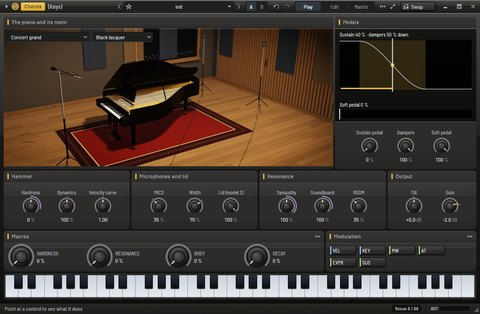
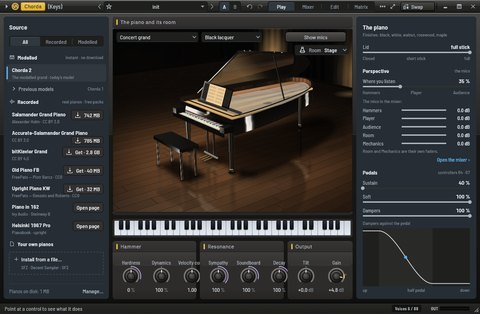
fix/final-d: Chorda as round 40 left it and Tympanum's card — Chorda's pictures re-shot from the current app (the grand in its room, Drawn, the source list and the room chip; Slate and Paper, EN and ES, thumbnails), its card says what it plays now (recorded pianos — the Salamander, bitKlavier, Accur

diff --git a/web/src/units_data.rs b/web/src/units_data.rs
@@ -4,7 +4,7 @@
 
 use crate::units::Unit;
 
-pub const INSTRUMENTS: [Unit; 9] = [
+pub const INSTRUMENTS: [Unit; 10] = [
     Unit {
         file: "unda",
         name: "Unda",
@@ -163,21 +163,44 @@ pub const INSTRUMENTS: [Unit; 9] = [
         file: "chorda",
         name: "Chorda",
         kind: ("Modelled grand piano", "Piano de cola modelado"),
-        pitch: ("A grand piano played from its physics: strings, felt hammers, a soundboard and half pedalling.", "Un piano de cola tocado desde su física: cuerdas, martillos de fieltro, tabla armónica y medio pedal."),
-        what: long!(("Chorda plays a grand piano from a physical model: each key's one to three strings struck by a felt hammer, meeting at a yielding bridge and ringing into a soundboard, with the other strings ringing in sympathy as their dampers allow. No sample excites anything; its numbers come from published measurements.", "Chorda toca un piano de cola desde un modelo físico: las una a tres cuerdas de cada tecla golpeadas por un martillo de fieltro, unidas en un puente que cede y resonando en una tabla armónica, mientras las demás cuerdas vibran por simpatía según lo permitan sus apagadores. Ninguna muestra excita nada; sus valores vienen de mediciones publicadas.")),
+        pitch: ("A grand piano played from its physics — strings, felt hammers, a soundboard, half pedalling — or a recorded piano with its own mixer.", "Un piano de cola tocado desde su física — cuerdas, martillos de fieltro, tabla armónica, medio pedal — o un piano grabado con su propio mezclador."),
+        what: long!(("Chorda plays a grand piano from a physical model: each key's one to three strings struck by a felt hammer, meeting at a yielding bridge and ringing into a soundboard, with the other strings ringing in sympathy as their dampers allow. No sample excites anything; its numbers come from published measurements. It also plays recorded pianos — the Salamander Grand, bitKlavier's microphone images, Accurate-Salamander, two uprights, or your own SFZ, Decent Sampler or SF2 — each microphone and noise a named output in its own mixer, one click from a strip of its own, and the model's perspectives too. Its window is the piano in its room, drawn and lit: the lid that opens, the microphones where they stand, the room chosen from a chip.", "Chorda toca un piano de cola desde un modelo físico: las una a tres cuerdas de cada tecla golpeadas por un martillo de fieltro, unidas en un puente que cede y resonando en una tabla armónica, mientras las demás cuerdas vibran por simpatía según lo permitan sus apagadores. Ninguna muestra excita nada; sus valores vienen de mediciones publicadas. También toca pianos grabados — el Salamander Grand, las imágenes de micrófono de bitKlavier, Accurate-Salamander, dos verticales, o tu propio SFZ, Decent Sampler o SF2 — cada micrófono y ruido una salida con nombre en su propio mezclador, a un clic de un canal propio, y también las perspectivas del modelo. Su ventana es el piano en su sala, dibujado e iluminado: la tapa que se abre, los micrófonos donde están, la sala elegida desde un chip.")),
         features: long!(&[
             ("Worst partial within 0.5 cent on the rendered sound, across all 88 keys", "Peor parcial a menos de 0.5 cent en el sonido renderizado, en las 88 teclas"),
             ("Continuous sustain pedal with half-pedalling; the soft pedal shifts the hammers", "Pedal de sustain continuo con medio pedal; el pedal suave desplaza los martillos"),
             ("Sympathetic resonance of the other strings and a 40-mode soundboard", "Resonancia por simpatía de las demás cuerdas y una tabla armónica de 40 modos"),
             ("Stretched tuning 0–200 %, string stiffness and A4 from 415 to 466 Hz", "Afinación estirada de 0 a 200 %, rigidez de cuerdas y La4 de 415 a 466 Hz"),
-            ("Felt hardness and hysteresis, two-stage decay and phantom partials, adjustable", "Dureza e histéresis del fieltro, decaimiento en dos etapas y parciales fantasma"),
-            ("The piano drawn from above: strings, bridge, dampers and the last key played", "El piano visto desde arriba: cuerdas, puente, apagadores y la última tecla tocada"),
+            ("Recorded pianos too: the Salamander, bitKlavier, two uprights or your own SFZ, Decent Sampler, SF2", "También pianos grabados: el Salamander, bitKlavier, dos verticales o tu propio SFZ, Decent Sampler, SF2"),
+            ("Its own mixer: each perspective a named output, one click from its own strip", "Su propio mezclador: cada perspectiva una salida con nombre, a un clic de su propio canal"),
         ]),
         presets: Some(24),
         plugin: false,
         ab: None,
         big: (1800, 1177),
         thumb: (640, 418),
+        es: None,
+    },
+
+    // fix/final-d — Tympanum, the acoustic drummer (ADR 0124).
+    Unit {
+        file: "tympanum",
+        name: "Tympanum",
+        kind: ("Acoustic drummer", "Batería acústica"),
+        pitch: ("An acoustic kit in its room: modelled drums heard through microphones you move, or recorded multi-mic kits, every mic on a strip of its own.", "Una batería acústica en su sala: tambores modelados escuchados por micrófonos que mueves, o baterías grabadas con varios micrófonos, cada micrófono en un canal propio."),
+        what: long!(("Tympanum is Cantus's acoustic drummer, grown from Pulsus's engine. Its modelled kits — Studio Maple, and Jazz Birch measured off a public-domain recording — play at once, with nothing to download: modal voices heard through virtual microphones you move by pattern, distance and aim, where they stand in the picture of the kit in its room. Each hit is one draw shared by every microphone, so the kick, the overheads and the room agree; a bleed matrix sets how much of each piece each microphone hears, and each microphone goes to a strip of its own in one click. The hi-hat opens continuously on CC4. A Hybrid voice plays recorded attacks under the model, and six recorded multi-mic kits stream from disk, in their own room or in Cantus's — both downloaded on demand.", "Tympanum es la batería acústica de Cantus, crecida desde el motor de Pulsus. Sus baterías modeladas — Studio Maple, y Jazz Birch medida sobre una grabación de dominio público — suenan al instante, sin nada que descargar: voces modales escuchadas por micrófonos virtuales que mueves por patrón, distancia y orientación, donde están en la imagen de la batería en su sala. Cada golpe es un mismo sorteo para todos los micrófonos, así el bombo, los aéreos y la sala coinciden; una matriz de fugas fija cuánto oye cada micrófono de cada pieza, y cada micrófono va a un canal propio con un clic. El charles se abre de forma continua con el CC4. Una voz Híbrida toca ataques grabados bajo el modelo, y seis baterías grabadas con varios micrófonos se leen desde el disco, en su propia sala o en las de Cantus — ambas se descargan cuando las pides.")),
+        features: long!(&[
+            ("Two modelled kits, instant, no download; their microphones moved by pattern, distance and aim", "Dos baterías modeladas, al instante, sin descarga; sus micrófonos se mueven por patrón, distancia y orientación"),
+            ("The kit in its room, drawn and lit: click a piece to play it, drag a microphone where it stands", "La batería en su sala, dibujada e iluminada: haz clic en una pieza para tocarla, arrastra un micrófono a su sitio"),
+            ("A bleed matrix: how much of each piece every microphone hears, cell by cell", "Una matriz de fugas: cuánto oye cada micrófono de cada pieza, celda a celda"),
+            ("Each microphone to a strip of its own in one click; one draw per hit shared by every mic", "Cada micrófono a un canal propio con un clic; un mismo sorteo por golpe para todos los micrófonos"),
+            ("A Hybrid voice and six recorded multi-mic kits, downloaded on demand, streamed from disk", "Una voz Híbrida y seis baterías grabadas con varios micrófonos, descargadas a petición, leídas desde el disco"),
+            ("The generated kit with every microphone at 7.3 % of a core; the hi-hat opened continuously by CC4", "La batería generada con todos los micrófonos al 7.3 % de un núcleo; el charles se abre de forma continua con el CC4"),
+        ]),
+        presets: None,
+        plugin: false,
+        ab: None,
+        big: (1800, 1086),
+        thumb: (640, 386),
         es: None,
     },
 
